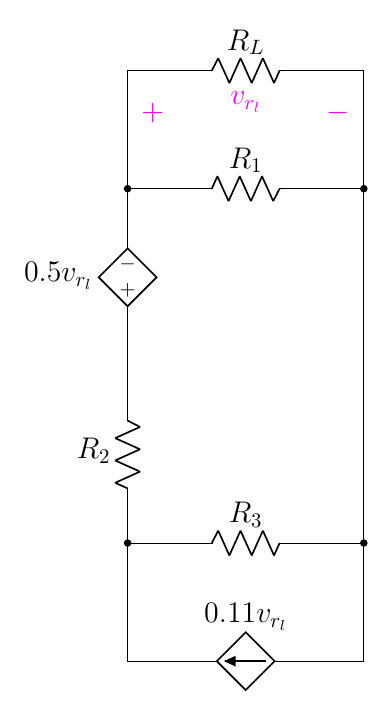
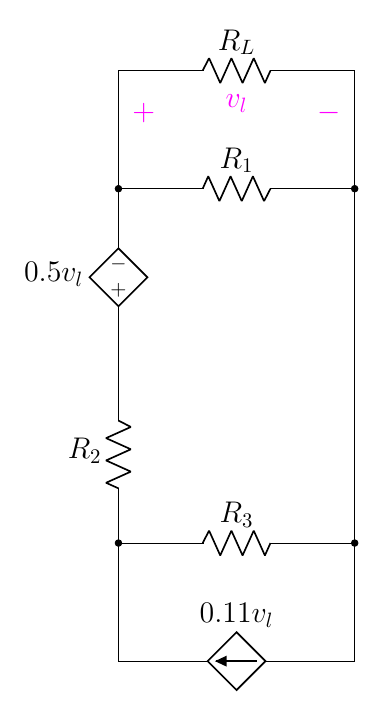
edit 0.2

diff --git a/1.8 Thevinin and Norton/0.0 new assign/0.2(new).tex b/1.8 Thevinin and Norton/0.0 new assign/0.2(new).tex
@@ -5,12 +5,12 @@
 
     \draw(0,0) 
         to[short] ++(0,-2)
-        to[american controlled current source,l_=$0.11v_{r_l}$] ++(-4,0) 
+        to[american controlled current source,l_=$0.11v_{l}$] ++(-4,0) 
         to[short] ++(0,2)
         to[R,l=\rname{3},*-*] ++(4,0) 
         to[short] ++(0,6)
         to[R,l_=\rname{1},*-*] ++(-4,0)
-        to[american controlled voltage source,l_=$0.5v_{r_l}$] ++(0,-3) 
+        to[american controlled voltage source,l_=$0.5v_{l}$] ++(0,-3) 
         to[R,l_=\rname{2}]  ++(0,-3) ++(0,6)
         to[short] ++(0,2)
         to[R,l=\rname{L}] ++(4,0)
@@ -24,7 +24,7 @@
         % to[open,v=$v$] ++(2,0);
 
     \draw[magenta](-4,7)  
-        to[open,v^=$v_{r_l}$] ++(4,0);
+        to[open,v^=$v_{l}$] ++(4,0);
 
     % \draw[circuitikz/current arrow color=magenta](-4,3.6)
     % to[open,f>^=$\color{magenta}{i_x}$] ++(0,-2);
